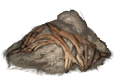
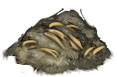
replaced mummy body and dead

diff --git a/buildscript/python/make_legend_enemies.py b/buildscript/python/make_legend_enemies.py
@@ -150,7 +150,7 @@ brush_only_layers = [
         "entity": "undead",
         "name": "mummy_head",
         "min": 1,
-        "max": 9,
+        "max": 4,
         "w": 104,
         "h": 142,
         "left": -17,
@@ -165,7 +165,7 @@ brush_only_layers = [
         "name": "mummy_head",
         "suffix": "dead",
         "min": 1,
-        "max": 9,
+        "max": 4,
         "w": 191,
         "h": 185,
         "left": -45,